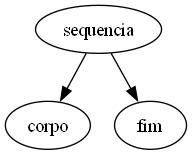
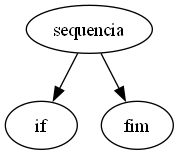
adiciona simplificação de estrutura condicional IF

diff --git a/src/gerarArvore.py b/src/gerarArvore.py
@@ -80,6 +80,19 @@ def simplificarArvore(no):
                     return simplificarArvore(filho)
                 
         case "corpo": 
+            # para IF
+            if len(no.filhos) == 4:
+                primeiroTermo = no.filhos[0]
+
+                if (primeiroTermo.tipo_no == "terminal" and primeiroTermo.simbolo == "KW_IF"):
+                    return {
+                        "tipo": "if",
+                        "condicao": simplificarArvore(no.filhos[1]),
+                        "entao": simplificarArvore(no.filhos[2]),
+                        "senao": simplificarArvore(no.filhos[3]),
+                        "linha": primeiroTermo.token.get("linha")
+                    }
+
             if len(no.filhos) == 2:
                 primeiroTermo = no.filhos[0]
                 segundoTermo = no.filhos[1]
